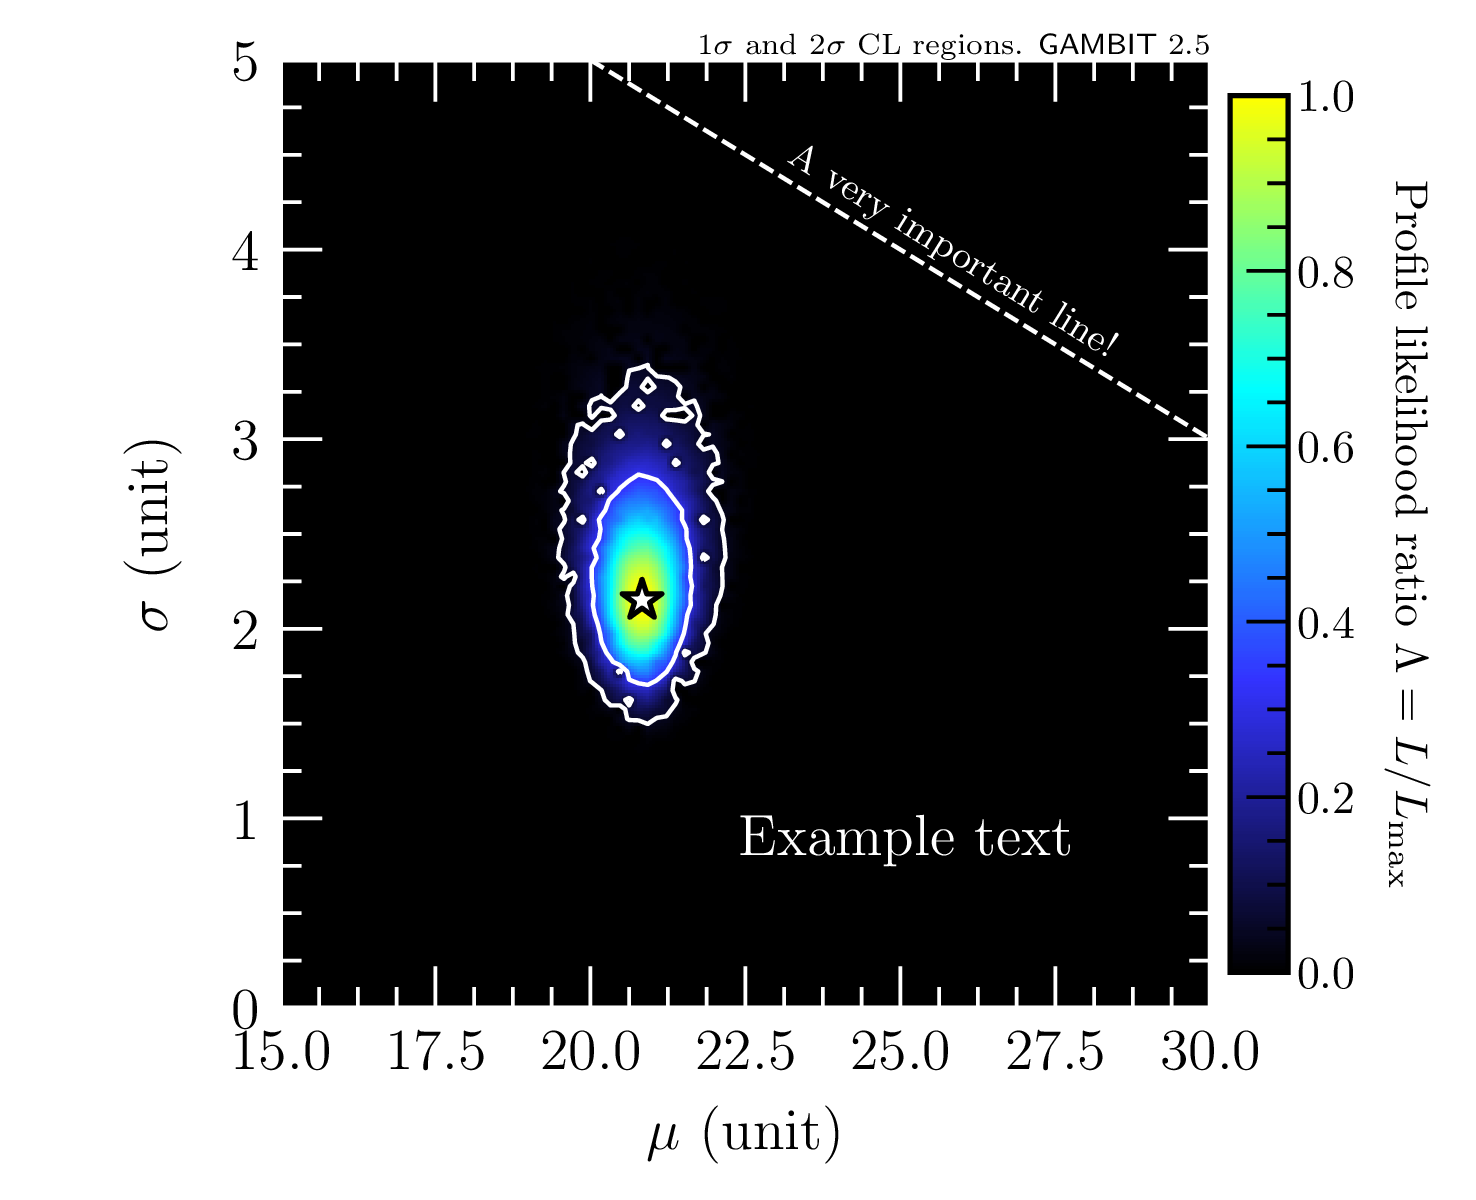
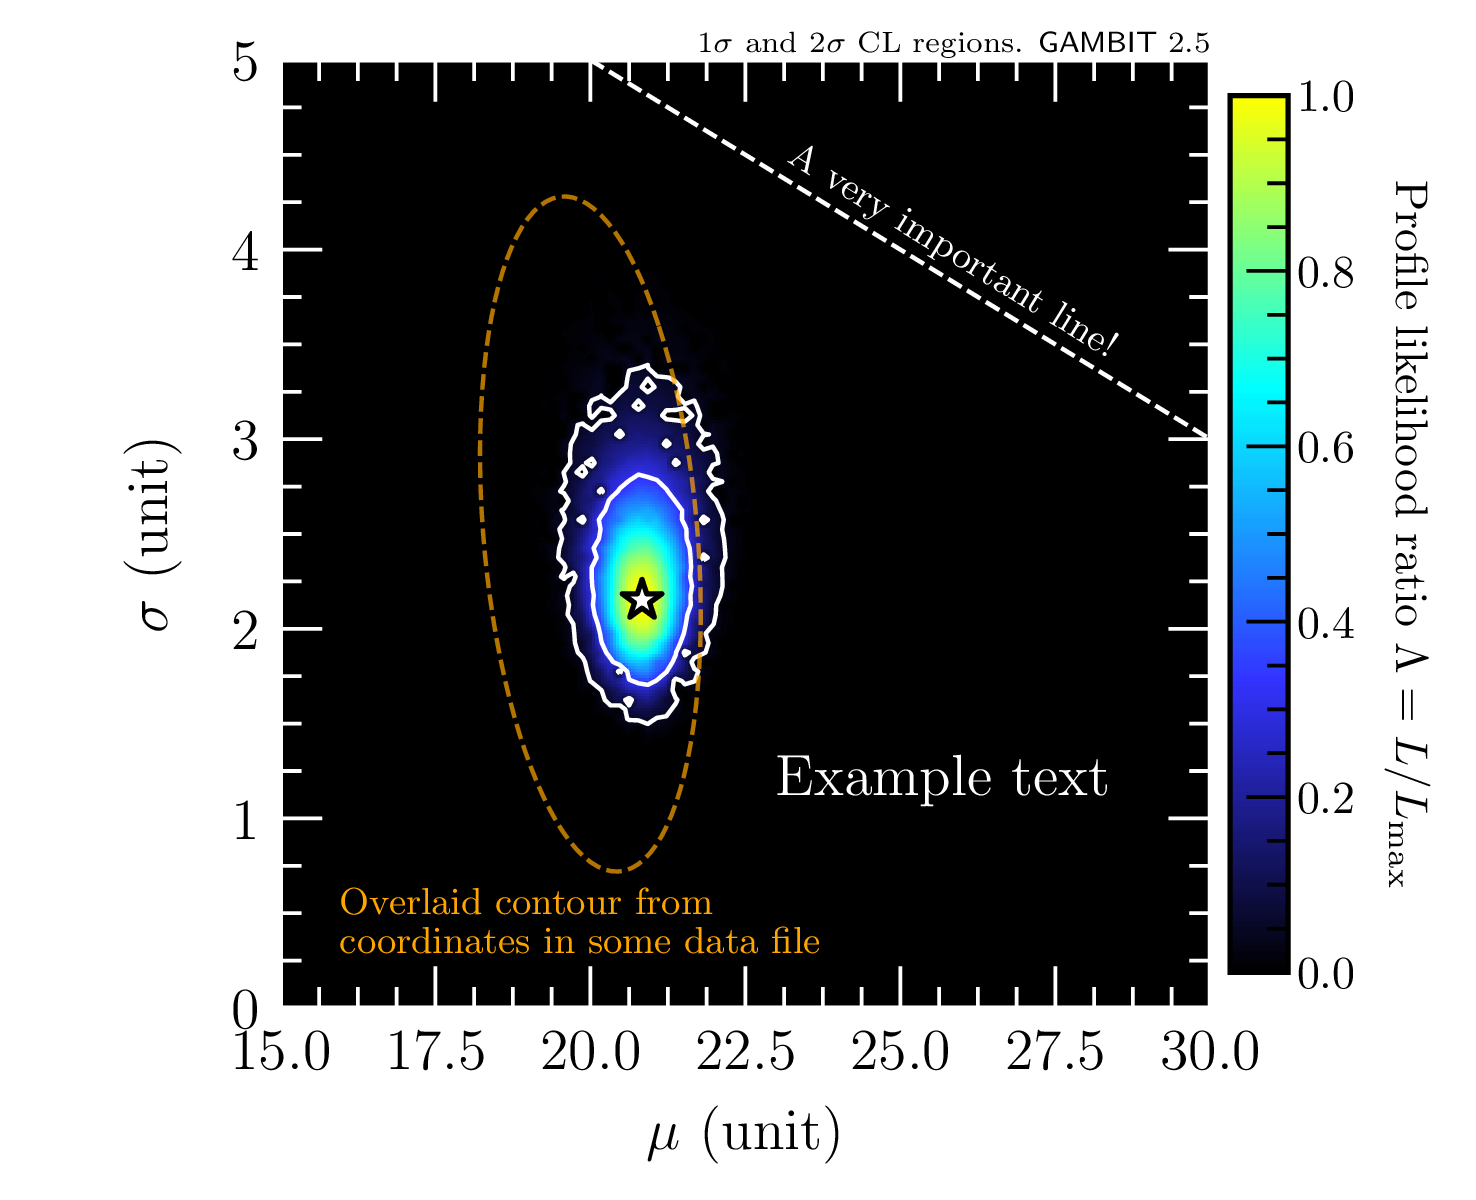
Added example of how to add a contour drawn from a set of saved x,y coordinates (e.g. from a digitised plot)

diff --git a/example_2D_profile_like_hdf5.py b/example_2D_profile_like_hdf5.py
@@ -84,7 +84,7 @@ fig, ax, cbar_ax = plot_utils.plot_2D_profile(
 )
 
 # Add text
-fig.text(0.50, 0.30, "Example text", ha="left", va="center", fontsize=plot_settings["fontsize"], color="white")
+fig.text(0.525, 0.350, "Example text", ha="left", va="center", fontsize=plot_settings["fontsize"], color="white")
 
 # Add header
 header_text = "$1\\sigma$ and $2\\sigma$ CL regions. \\textsf{GAMBIT} 2.5"
@@ -93,6 +93,11 @@ add_header(header_text, ax=ax)
 # Add anything else to the plot, e.g. some more lines and labels and stuff
 ax.plot([20.0, 30.0], [5.0, 3.0], color="white", linewidth=plot_settings["contour_linewidth"], linestyle="dashed")
 fig.text(0.53, 0.79, "A very important line!", ha="left", va="center", rotation=-31.5, fontsize=plot_settings["fontsize"]-5, color="white")
+
+# Draw a contour using coordinates stored in a .csv file
+x_contour, y_contour = np.loadtxt("./example_data/contour_coordinates.csv", delimiter=",", usecols=(0, 1), unpack=True)
+ax.plot(x_contour, y_contour, color="orange", linestyle="dashed", linewidth=plot_settings["contour_linewidth"], alpha=0.7)
+fig.text(0.23, 0.23, "Overlaid contour from\n coordinates in some data file", ha="left", va="center", fontsize=plot_settings["fontsize"]-5, color="orange")
 
 # Save to file
 output_path = f"./plots/2D_profile__{x_key}__{y_key}__{z_key}.pdf"

diff --git a/README.md b/README.md
@@ -37,6 +37,8 @@ pip install git+https://github.com/GambitBSM/gambit_plotting_tools.git
   
   <img src="example_plots/2D_profile__mu__sigma__LogLike.png" alt="2D profile likelihood example plot" width="500"/>
   
+  This example also illustrates how to add a contour drawn from a set of stored coordinates, e.g. from some digitised plot.
+
 - Make multiple 2D profile likelihood plots in one go, combining the data from the hdf5 files `example_data/results_run1.hdf5` and `example_data/results_run2.hdf5`
   ```terminal
   python example_2D_profile_like_hdf5_multiple.py
